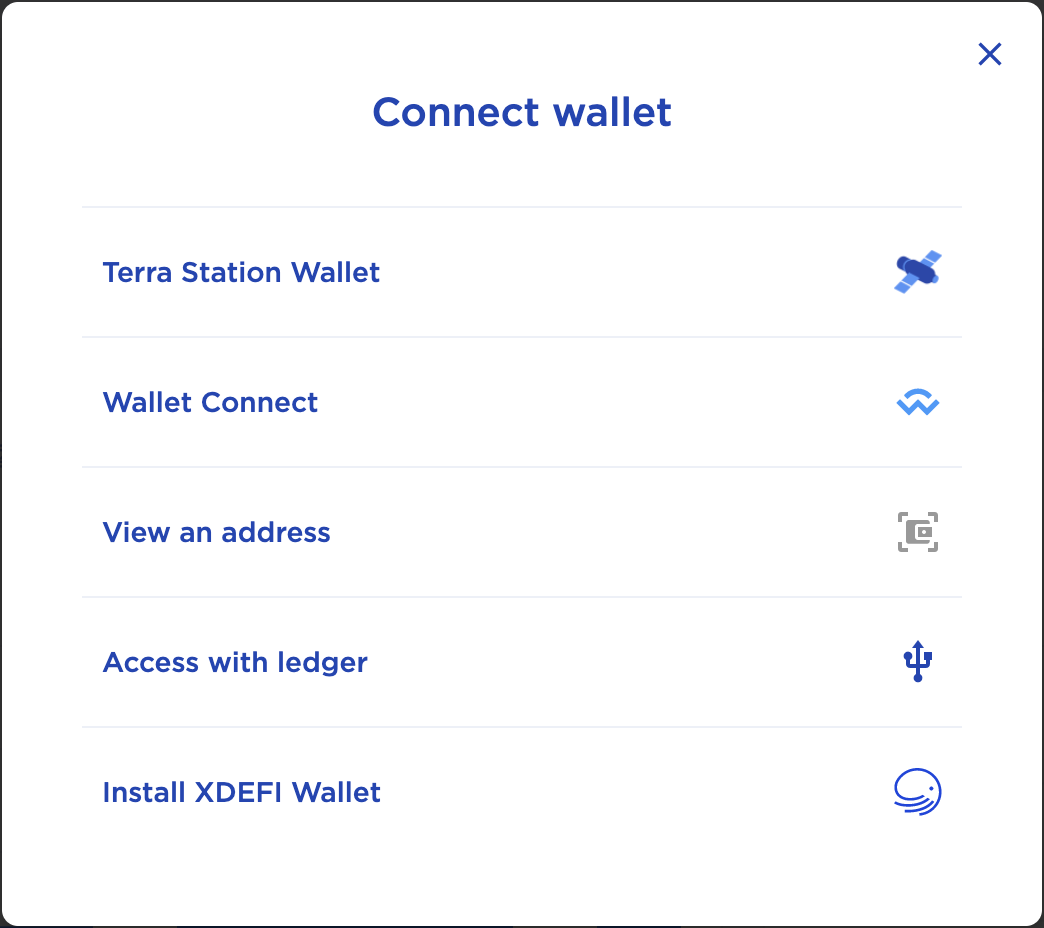
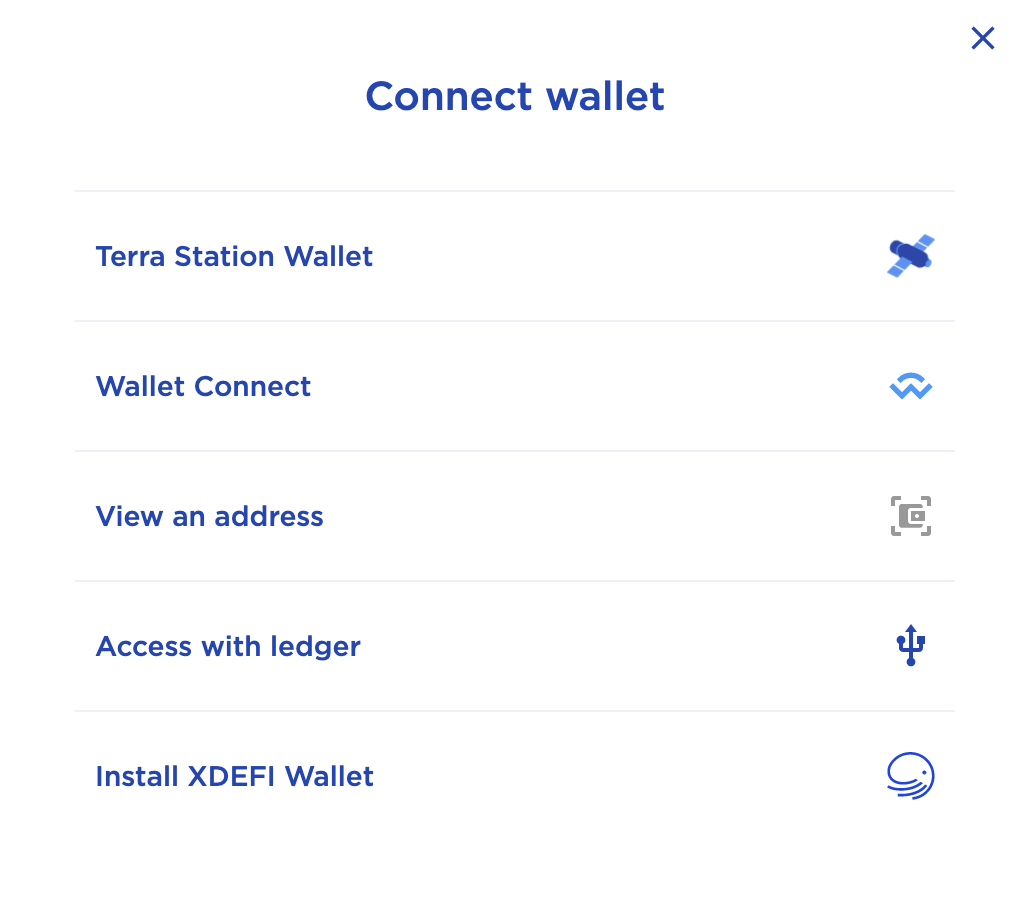
docs: updating readme, cropping images

diff --git a/README.md b/README.md
@@ -32,7 +32,7 @@ There are a few changes you have to make before you may deploy your smart contra
 Open the Terra Station extension on your Google Chrome web browser. Click on the settings icon in the upper right-hand corner and select the **localterra** network.
 
 <div align="center">
-  <img src="readme_images/extension_localterra.png" alt="Switch to LocalTerra" style="width: 400px; padding: 40px"/>
+  <img src="readme_images/extension_localterra.png" alt="Switch to LocalTerra" style="border:1px solid black; width: 400px; margin: 10px 10px 20px 10px;"/>
 </div>
 
 ### Switch to Test Wallet
@@ -40,8 +40,8 @@ Open the Terra Station extension on your Google Chrome web browser. Click on the
 Next, you will click on _Switch wallet_, then click on the drop down menu that appears in the subsequent popup and finally select the test1 wallet from the drop down list that appears.
 
 <div align="center">
-  <img src="readme_images/switch_wallet.png" alt="Switch Wallet" style="width: 400px; padding: 40px"/>
-  <img src="readme_images/test_wallet.png" alt="Select Test Wallet" style="width: 400px; padding: 40px"/>
+  <img src="readme_images/switch_wallet.png" alt="Switch Wallet" style="border:1px solid black; width: 400px; margin: 10px 10px 20px 10px;"/>
+  <img src="readme_images/test_wallet.png" alt="Select Test Wallet" style="border:1px solid black; width: 400px; margin: 10px 10px 20px 10px;"/>
 </div>
 
 Now that you have successfully switched to the testing wallet on LocalTerra, you have setup your environment to be able to deploy your smart contract.
@@ -65,7 +65,7 @@ Before you may deploy your contract and begin minting your NFT, you must make a 
 You must first update the desired _name_ and _symbol_ that will correspond to your minted NFT. Also, the _minter_ will have to be updated to your test1 wallet address. This may be copied directly from your Terra Station extension.
 
 <div align="center">
-  <img src="readme_images/copy_address.png" alt="Copy Wallet Address" style="width: 400px; padding: 40px"/>
+  <img src="readme_images/copy_address.png" alt="Copy Wallet Address" style="border:1px solid black; width: 400px; margin: 10px 10px 20px 10px;"/>
 </div>
 
 In this tutorial, we will be minting an NFT of Luna, the native token of Terraform Labs, to our Cryptocurrency Token NFTs collection. Therefore, we will update the parameters in the instantiate message to the following:
@@ -93,7 +93,7 @@ terrain deploy cw721-metadata-onchain --signer test1
 Once the contract deployment is successfully completed, you may change into the `frontend` directory. From here, you must run `npm install` to install all necessary Node dependencies. Finally, you may run the command `npm start` to start up the NFT minting application.
 
 <div align="center">
-  <img src="readme_images/application.png" alt="NFT Minting Application" style="width: 400px; padding: 40px"/>
+  <img src="readme_images/application.png" alt="NFT Minting Application" style="border:1px solid black; width: 400px; margin: 10px 10px 20px 10px;"/>
 </div>
 
 As shown above, you may fill out all of the necessary information on the form to mint your first NFT. ID may be any value that you would like to correspond to the ID of the new NFT. The Owner Address is the wallet address which will be the owner of the newly minted NFT (our test1 wallet address in this case). You may then enter a name for the NFT as well as input its corresponding URL.
@@ -103,7 +103,7 @@ As shown above, you may fill out all of the necessary information on the form to
 Now, you are ready to mint your NFT! Click on the _Mint NFT_ button which will make your Terra Station extension pop up to request confirmation of the transaction. Click on the _Post_ button from your Terra Station extension and you will be presented with information on your newly minted NFT!
 
 <div align="center">
-  <img src="readme_images/nft_minted.png" alt="Minted NFT" style="width: 400px; padding: 40px"/>
+  <img src="readme_images/nft_minted.png" alt="Minted NFT" style="border:1px solid black; width: 400px; margin: 10px 10px 20px 10px;"/>
 </div>
 
 ## View Your New NFT
@@ -111,7 +111,7 @@ Now, you are ready to mint your NFT! Click on the _Mint NFT_ button which will m
 Now that you have minted your NFT, you may interact with it via the [NFT webpage](https://station.terra.money/nft) on the Terra Station website. If your wallet is not already connected, make sure to click on the `Connect` button in the upper right-hand corner of the screen and select your Terra Station Wallet.
 
 <div align="center">
-  <img src="readme_images/connect_wallet.png" alt="Connect Wallet" style="width: 400px; padding: 40px"/>
+  <img src="readme_images/connect_wallet.png" alt="Connect Wallet" style="border:1px solid black; width: 400px; margin: 10px 10px 20px 10px;"/>
 </div>
 
 Next, click on `Add tokens >` and you will be presented with a pop-up box with a search bar. In this search bar, you will be pasting in your contract address. This can be found in this repository in the `refs.terrain.json` file next to the **default** key.
@@ -132,13 +132,13 @@ Next, click on `Add tokens >` and you will be presented with a pop-up box with a
 Copy this address, paste it into the search bar and click on the `+` button located next to the name of your NFT collection.
 
 <div align="center">
-  <img src="readme_images/nft_search.png" alt="Search NFT Collection" style="width: 400px; padding: 40px"/>
+  <img src="readme_images/nft_search.png" alt="Search NFT Collection" style="border:1px solid black; width: 400px; margin: 10px 10px 20px 10px;"/>
 </div>
 
 Now, you may close out this window and you will be presented with information on your NFT collection.
 
 <div align="center">
-  <img src="readme_images/nft_station.png" alt="NFT Collection" style="width: 400px; padding: 40px"/>
+  <img src="readme_images/nft_station.png" alt="NFT Collection" style="border:1px solid black; width: 400px; margin: 10px 10px 20px 10px;"/>
 </div>
 
 As shown in the image above, we have our NFT presented in our Cryptocurrency Token NFTs collection. From here, we may `View` relevant information about our NFT as well as `Send` our NFT to any specified wallet address. You may utilize the application to mint even more NFTs for your collection as desired and interact with them on this webpage.
